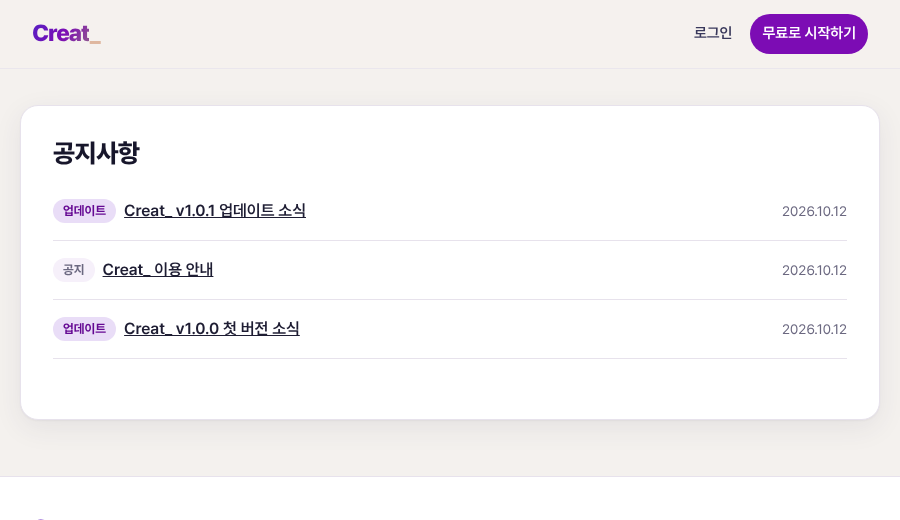
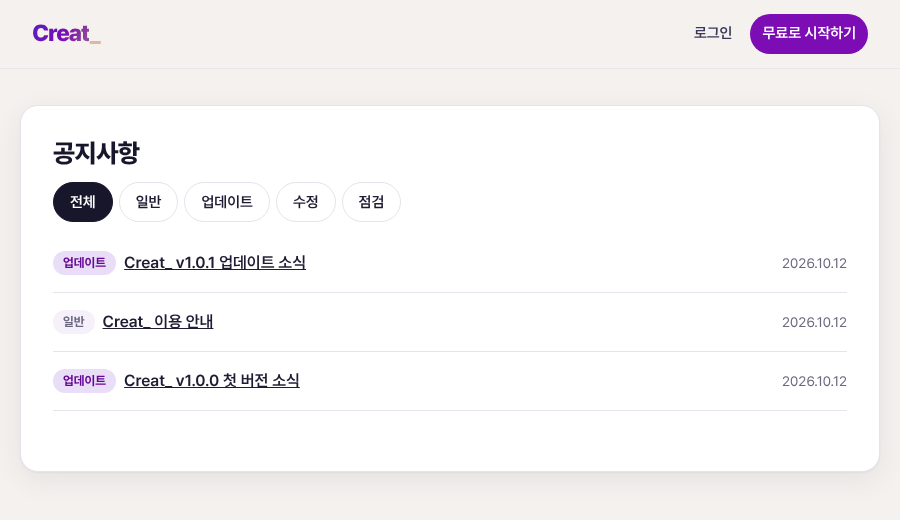
가입 이메일 중복 확인 버튼, 공지 카테고리 4가지·탭, 메일 비밀번호 공백 제거
- 가입 화면 [중복 확인]: GET /api/auth/signup/email-available, IP별 1분 20번.
  이미 가입된 이메일은 인증번호 요청도 409 EMAIL_TAKEN (D-99, 헌법 2.0.0)
- 공지 카테고리 일반·업데이트·수정·점검, 공지사항 목록 위 탭 (D-98)
- deploy.sh: MAIL_USERNAME·MAIL_PASSWORD의 공백을 빼고 넣음
  (운영에서 Gmail이 MailAuthenticationException으로 로그인을 거절함)
- v1.0.1 노트와 캡처 갱신

Claude-Session: https://claude.ai/code/session_01MxnkknZ99PkVXPKJhzrwTG

diff --git a/app/src/main/resources/static/js/pages/signup.js b/app/src/main/resources/static/js/pages/signup.js
@@ -8,7 +8,7 @@ if (me) {
 }
 
 const $ = (id) => document.getElementById(id);
-const state = { email: null, password: null, nicknameChecked: null };
+const state = { email: null, password: null, emailChecked: null, nicknameChecked: null };
 
 function showStep(n) {
   [1, 2, 3].forEach((i) => { $('step' + i).hidden = i !== n; });
@@ -20,26 +20,59 @@ function showStep(n) {
 
 // ① 이메일 인증 (USR-02)
 let resendTimer = null;
+let resendTimerRunning = false;
 function startResendCooldown(seconds) {
   const button = $('send-code');
   let left = seconds;
   button.disabled = true;
+  resendTimerRunning = true;
   clearInterval(resendTimer);
   resendTimer = setInterval(() => {
     left -= 1;
     button.textContent = left > 0 ? `다시 보내기 (${left}초)` : '다시 보내기';
     if (left <= 0) {
       clearInterval(resendTimer);
-      button.disabled = false;
+      resendTimerRunning = false;
+      button.disabled = state.emailChecked === null;
     }
   }, 1000);
 }
 
-$('send-code').addEventListener('click', async () => {
+// 이메일 중복 확인 (D-99). 확인한 이메일과 지금 칸의 값이 같을 때만 인증번호를 받을 수 있다.
+$('check-email').addEventListener('click', async () => {
+  const email = $('email').value.trim();
   $('step1-error').textContent = '';
   try {
-    const res = await api.post('/api/auth/signup/code', { email: $('email').value });
-    state.email = $('email').value;
+    const res = await api.get('/api/auth/signup/email-available?email=' + encodeURIComponent(email));
+    $('email-message').textContent = res.available
+      ? '가입할 수 있는 이메일입니다.'
+      : '이미 가입된 이메일입니다. 로그인하거나 비밀번호 찾기를 이용해 주세요.';
+    state.emailChecked = res.available ? email : null;
+  } catch (err) {
+    $('email-message').textContent = '';
+    $('step1-error').textContent = err.message;
+    state.emailChecked = null;
+  }
+  $('send-code').disabled = state.emailChecked === null || resendTimerRunning;
+});
+
+$('email').addEventListener('input', () => {
+  if (state.emailChecked !== null && $('email').value.trim() !== state.emailChecked) {
+    state.emailChecked = null;
+    $('email-message').textContent = '';
+    $('send-code').disabled = true;
+  }
+});
+
+$('send-code').addEventListener('click', async () => {
+  $('step1-error').textContent = '';
+  if (state.emailChecked === null) {
+    $('step1-error').textContent = '이메일 중복 확인을 먼저 해 주세요.';
+    return;
+  }
+  try {
+    const res = await api.post('/api/auth/signup/code', { email: state.emailChecked });
+    state.email = state.emailChecked;
     $('send-message').textContent = res.message;
     $('code-box').hidden = false;
     $('code').focus();

diff --git a/app/src/main/resources/static/js/pages/notice.js b/app/src/main/resources/static/js/pages/notice.js
@@ -1,7 +1,7 @@
 // 메인 공지사항 목록과 본문 (BRD-10). /notices, /notices/{id}
 import { ApiError, api } from '../api.js';
 import { el, initLayout, renderNotFound } from '../layout.js';
-import { categoryBadge } from '../notice-category.js';
+import { NOTICE_CATEGORIES, categoryBadge } from '../notice-category.js';
 import { renderPager } from '../pager.js';
 
 await initLayout();
@@ -25,12 +25,33 @@ if (id) {
     }
   }
 } else {
-  let page = Number(new URLSearchParams(location.search).get('page')) || 1;
+  const query = new URLSearchParams(location.search);
+  let page = Number(query.get('page')) || 1;
+  let category = NOTICE_CATEGORIES.some(([value]) => value === query.get('category')) ? query.get('category') : '';
+  const address = () => '/notices?' + new URLSearchParams({ ...(category && { category }), page }).toString();
+
+  // 전체·일반·업데이트·수정·점검 탭 (D-98)
+  const tabs = [['', '전체'], ...NOTICE_CATEGORIES].map(([value, label]) => {
+    const tab = el('button', { type: 'button', class: 'tab', role: 'tab' }, label);
+    tab.addEventListener('click', () => {
+      category = value;
+      page = 1;
+      history.replaceState(null, '', address());
+      load();
+    });
+    return [value, tab];
+  });
+  $('notice-tabs').replaceChildren(...tabs.map(([, tab]) => tab));
+
   const load = async () => {
+    tabs.forEach(([value, tab]) => {
+      tab.classList.toggle('active', value === category);
+      tab.setAttribute('aria-selected', String(value === category));
+    });
     try {
-      const res = await api.get('/api/notices/all?page=' + page);
+      const res = await api.get('/api/notices/all?page=' + page + (category ? '&category=' + category : ''));
       const list = $('notice-list');
-      if (res.items.length === 0) list.replaceChildren(el('li', { class: 'muted' }, '아직 공지가 없어요.'));
+      if (res.items.length === 0) list.replaceChildren(el('li', { class: 'muted' }, category ? '이 카테고리에는 아직 글이 없어요.' : '아직 공지가 없어요.'));
       else {
         list.replaceChildren(...res.items.map((n) => {
           const li = el('li');
@@ -42,7 +63,7 @@ if (id) {
       }
       renderPager($('pager'), res.page, res.totalPages, (p) => {
         page = p;
-        history.replaceState(null, '', '/notices?page=' + p);
+        history.replaceState(null, '', address());
         load();
       });
       $('list-view').hidden = false;

diff --git a/app/src/main/resources/static/js/notice-category.js b/app/src/main/resources/static/js/notice-category.js
@@ -1,9 +1,15 @@
-// 메인 공지 카테고리 표시 (D-98). 서버 값 NOTICE·UPDATE를 "공지"·"업데이트" 배지로 보여 준다.
+// 메인 공지 카테고리 표시 (D-98). 서버 값을 화면 이름과 배지로 바꾼다.
 import { el } from './layout.js';
 
-export const NOTICE_CATEGORIES = [['NOTICE', '공지'], ['UPDATE', '업데이트']];
+export const NOTICE_CATEGORIES = [['NOTICE', '일반'], ['UPDATE', '업데이트'], ['FIX', '수정'], ['MAINTENANCE', '점검']];
+
+const BADGE_CLASS = { NOTICE: 'muted-badge', UPDATE: '', FIX: 'fix-badge', MAINTENANCE: 'warn' };
+
+export function categoryLabel(category) {
+  return (NOTICE_CATEGORIES.find(([value]) => value === category) || NOTICE_CATEGORIES[0])[1];
+}
 
 export function categoryBadge(category) {
-  const update = category === 'UPDATE';
-  return el('span', { class: update ? 'badge notice-cat' : 'badge muted-badge notice-cat' }, update ? '업데이트' : '공지');
+  const cls = BADGE_CLASS[category] ?? BADGE_CLASS.NOTICE;
+  return el('span', { class: `badge ${cls} notice-cat`.replace('  ', ' ') }, categoryLabel(category));
 }

diff --git a/app/src/main/resources/static/signup.html b/app/src/main/resources/static/signup.html
@@ -25,9 +25,11 @@
         <label for="email">이메일</label>
         <div class="row">
           <input id="email" type="email" autocomplete="email" required>
-          <button id="send-code" type="button">인증번호 받기</button>
+          <button id="check-email" type="button">중복 확인</button>
         </div>
-        <p class="hint">한 이메일로 한 계정만 만들 수 있어요. 이미 가입된 이메일이면 인증번호 대신 "이미 가입된 이메일입니다" 메일이 가요.</p>
+        <p class="hint">한 이메일로 한 계정만 만들 수 있어요. 중복 확인 후 인증번호를 받아 주세요.</p>
+        <p id="email-message" class="info"></p>
+        <button id="send-code" type="button" disabled>인증번호 받기</button>
         <p id="send-message" class="info"></p>
         <div id="code-box" hidden>
           <label for="code">인증번호 6자리</label>

diff --git a/app/src/main/resources/static/css/common.css b/app/src/main/resources/static/css/common.css
@@ -679,6 +679,7 @@ select.reason-filter { width: auto; margin: 4px 0 8px; }
 .notice-list li .muted { flex: none; }
 .notice-title { display: flex; align-items: center; gap: 8px; min-width: 0; }
 .notice-cat { flex: none; }
+.badge.fix-badge { background: #E3F1EA; color: #2E6B4F; }
 .side-more { margin: 10px 0 0; font-size: 0.88rem; }
 
 /* ----- 글 화면의 목록 버튼 ----- */

diff --git a/app/src/main/resources/static/notice.html b/app/src/main/resources/static/notice.html
@@ -14,6 +14,7 @@
     <p id="error" class="notice" hidden></p>
     <section id="list-view" class="card" hidden>
       <h1 class="section-title">공지사항</h1>
+      <div class="tabs" role="tablist" id="notice-tabs"></div>
       <ul id="notice-list" class="notice-list"></ul>
       <nav id="pager" class="pager" aria-label="공지 쪽"></nav>
     </section>

diff --git a/app/src/main/java/com/blognm/mainblog/auth/SignupService.java b/app/src/main/java/com/blognm/mainblog/auth/SignupService.java
@@ -43,16 +43,26 @@ public class SignupService {
         this.clock = clock;
     }
 
-    /**
-     * 인증번호 요청. 가입 여부와 관계없이 같은 응답을 준다 (D-28).
-     * 이미 가입된 이메일도 인증 행을 만들어 다시 보내기 1분 제한이 똑같이 걸리게 하고,
-     * 그 행의 해시는 어떤 6자리로도 맞출 수 없는 값으로 둔다.
-     */
+    /** 이메일 중복 확인. 가입 화면에서 바로 알려 준다 (D-99). 하나씩 넣어 보는 것을 막으려고 IP별로 센다. */
+    public boolean isEmailAvailable(String rawEmail, String clientIp) {
+        String email = MemberRules.normalizeEmail(rawEmail);
+        if (!rateLimiter.tryAcquire("email-check:" + clientIp, props.rateLimit().emailCheckPerMinute(),
+                Duration.ofMinutes(1))) {
+            throw new ApiException(HttpStatus.TOO_MANY_REQUESTS, "TOO_MANY_REQUESTS",
+                    "요청이 너무 많습니다. 잠시 후 다시 시도해 주세요.");
+        }
+        return !members.existsByEmail(email);
+    }
+
+    /** 인증번호 요청. 이미 가입된 이메일이면 메일을 보내지 않고 바로 알려 준다 (D-99). */
     @Transactional
     public void requestCode(String rawEmail, String clientIp) {
         String email = MemberRules.normalizeEmail(rawEmail);
         LocalDateTime now = LocalDateTime.now(clock);
         AppProperties.Signup cfg = props.signup();
+        if (members.existsByEmail(email)) {
+            throw emailTaken();
+        }
 
         verifications.findFirstByEmailAndPurposeOrderByIdDesc(email, Purpose.SIGNUP).ifPresent(prev -> {
             if (prev.getSentAt().plus(cfg.resendInterval()).isAfter(now)) {
@@ -68,16 +78,15 @@ public class SignupService {
         // 다시 보내면 이전 번호는 무효 (USR-02)
         verifications.deleteAllFor(email, Purpose.SIGNUP);
 
-        boolean registered = members.existsByEmail(email);
         String code = Hashing.sixDigitCode();
-        String codeHash = registered ? hashCode(email, Hashing.randomToken()) : hashCode(email, code);
-        verifications.save(EmailVerification.issue(email, Purpose.SIGNUP, codeHash, now, now.plus(cfg.codeTtl())));
+        verifications.save(EmailVerification.issue(email, Purpose.SIGNUP, hashCode(email, code), now,
+                now.plus(cfg.codeTtl())));
+        mail.sendSignupCode(email, code, cfg.codeTtl().toMinutes());
+    }
 
-        if (registered) {
-            mail.sendAlreadyRegistered(email);
-        } else {
-            mail.sendSignupCode(email, code, cfg.codeTtl().toMinutes());
-        }
+    private static ApiException emailTaken() {
+        return new ApiException(HttpStatus.CONFLICT, "EMAIL_TAKEN",
+                "이미 가입된 이메일입니다. 로그인하거나 비밀번호 찾기를 이용해 주세요.");
     }
 
     /** 인증번호 확인. 10분 만료, 5번 틀리면 무효 (USR-02). */

diff --git a/app/src/main/java/com/blognm/mainblog/notice/NoticeService.java b/app/src/main/java/com/blognm/mainblog/notice/NoticeService.java
@@ -27,8 +27,8 @@ public class NoticeService {
     static final int CONTENT_MAX = 5000;
     static final int PAGE_SIZE = 20;
 
-    /** 공지 카테고리 (D-98). 화면에는 "공지", "업데이트"로 보인다. */
-    public enum Category { NOTICE, UPDATE }
+    /** 공지 카테고리 (D-98). 화면에는 일반·업데이트·수정·점검으로 보인다. */
+    public enum Category { NOTICE, UPDATE, FIX, MAINTENANCE }
     private static final DateTimeFormatter DATE = DateTimeFormatter.ofPattern("yyyy.MM.dd");
 
     private final NamedParameterJdbcTemplate jdbc;
@@ -45,13 +45,21 @@ public class NoticeService {
 
     @Transactional(readOnly = true)
     public Page list(int page) {
-        Long total = jdbc.queryForObject("SELECT COUNT(*) FROM notices WHERE status = 'NORMAL'", Map.of(), Long.class);
+        return list(page, null);
+    }
+
+    /** category가 있으면 그 카테고리만 (공지사항 화면의 탭, D-98). */
+    @Transactional(readOnly = true)
+    public Page list(int page, Category category) {
+        String where = "status = 'NORMAL'" + (category == null ? "" : " AND category = :category");
+        MapSqlParameterSource params = new MapSqlParameterSource("category", category == null ? null : category.name());
+        Long total = jdbc.queryForObject("SELECT COUNT(*) FROM notices WHERE " + where, params, Long.class);
         long count = total == null ? 0 : total;
         int current = Math.max(page, 1);
         List<Item> items = jdbc.query("""
-                SELECT id, title, category, created_at FROM notices WHERE status = 'NORMAL'
+                SELECT id, title, category, created_at FROM notices WHERE %s
                 ORDER BY created_at DESC, id DESC LIMIT :size OFFSET :offset
-                """, new MapSqlParameterSource("size", PAGE_SIZE).addValue("offset", (current - 1) * PAGE_SIZE),
+                """.formatted(where), params.addValue("size", PAGE_SIZE).addValue("offset", (current - 1) * PAGE_SIZE),
                 (rs, i) -> new Item(rs.getLong("id"), rs.getString("title"), rs.getString("category"),
                         rs.getObject("created_at", LocalDateTime.class).format(DATE)));
         return new Page(items, current, (int) ((count + PAGE_SIZE - 1) / PAGE_SIZE), count);

diff --git a/app/src/test/java/com/blognm/mainblog/auth/SignupTest.java b/app/src/test/java/com/blognm/mainblog/auth/SignupTest.java
@@ -1,6 +1,7 @@
 package com.blognm.mainblog.auth;
 
 import static org.assertj.core.api.Assertions.assertThat;
+import static org.springframework.test.web.servlet.request.MockMvcRequestBuilders.get;
 import static org.springframework.test.web.servlet.result.MockMvcResultMatchers.jsonPath;
 import static org.springframework.test.web.servlet.result.MockMvcResultMatchers.status;
 
@@ -39,19 +40,25 @@ class SignupTest extends IntegrationTest {
     }
 
     @Test
-    @DisplayName("이미 가입된 이메일도 화면 문구는 같고, 메일로만 '이미 가입된 이메일' 안내가 간다 (D-28)")
-    void alreadyRegisteredLooksTheSame() throws Exception {
+    @DisplayName("중복 확인 버튼: 가입된 이메일이면 화면에서 바로 알려 주고, 인증번호 메일도 보내지 않는다 (D-99)")
+    void emailTaken() throws Exception {
         signup("old@example.com", "Abcd1234!", "기존회원");
         mails.sent().clear();
         clock.advance(Duration.ofMinutes(2));
 
-        postJson("/api/auth/signup/code", "{\"email\":\"OLD@example.com\"}")
+        mvc.perform(get("/api/auth/signup/email-available").param("email", " OLD@example.com"))
                 .andExpect(status().isOk())
-                .andExpect(jsonPath("$.message").value("인증번호를 보냈습니다. 메일함을 확인해 주세요."));
+                .andExpect(jsonPath("$.available").value(false));
+        mvc.perform(get("/api/auth/signup/email-available").param("email", "fresh@example.com"))
+                .andExpect(jsonPath("$.available").value(true));
+        mvc.perform(get("/api/auth/signup/email-available").param("email", "not-an-email"))
+                .andExpect(status().isBadRequest())
+                .andExpect(jsonPath("$.code").value("INVALID_EMAIL"));
 
-        var mail = waitForMail("old@example.com");
-        assertThat(mail.subject()).contains("이미 가입된 이메일");
-        assertThat(mail.body()).doesNotContain("인증번호:");
+        postJson("/api/auth/signup/code", "{\"email\":\"OLD@example.com\"}")
+                .andExpect(status().isConflict())
+                .andExpect(jsonPath("$.code").value("EMAIL_TAKEN"));
+        assertThat(mails.sent()).isEmpty();
     }
 
     @Test

diff --git a/app/src/main/java/com/blognm/mainblog/mail/AuthMailService.java b/app/src/main/java/com/blognm/mainblog/mail/AuthMailService.java
@@ -47,19 +47,6 @@ public class AuthMailService {
                 """.formatted(code, ttlMinutes));
     }
 
-    /** 이미 가입된 이메일로 가입을 시도하면 인증번호 대신 이 안내를 보낸다 (D-28). */
-    @Async
-    public void sendAlreadyRegistered(String email) {
-        send(email, "[Creat_] 이미 가입된 이메일입니다", """
-                이 이메일로 회원가입을 시도했지만, 이미 가입된 이메일입니다.
-
-                비밀번호가 기억나지 않으면 로그인 화면의 [비밀번호 찾기]를 이용해 주세요.
-                %s/login.html
-
-                본인이 요청하지 않았다면 이 메일을 무시하세요.
-                """.formatted(props.baseUrl()));
-    }
-
     private void send(String to, String subject, String body) {
         try {
             gateway.send(to, subject, body);

diff --git a/app/src/test/java/com/blognm/mainblog/notice/NoticeTest.java b/app/src/test/java/com/blognm/mainblog/notice/NoticeTest.java
@@ -80,6 +80,10 @@ class NoticeTest extends IntegrationTest {
                 {"title":"점검 안내 (바뀜)","content":"일요일로 바뀌었습니다","category":"UPDATE"}""", admin).andExpect(status().isOk());
         getAs("/api/notices/" + id).andExpect(jsonPath("$.title").value("점검 안내 (바뀜)"))
                 .andExpect(jsonPath("$.category").value("UPDATE"));
+        // 공지사항 탭: 카테고리로 거른다 (D-98)
+        getAs("/api/notices/all?category=UPDATE").andExpect(jsonPath("$.total").value(1));
+        getAs("/api/notices/all?category=MAINTENANCE").andExpect(jsonPath("$.total").value(0));
+        getAs("/api/notices/all?category=WRONG").andExpect(status().isBadRequest());
         assertThat(notices("a@example.com")).isEqualTo(1);
 
         sendAs(HttpMethod.DELETE, "/api/admin/notices/" + id, null, admin).andExpect(status().isOk());

diff --git a/app/src/main/java/com/blognm/mainblog/auth/AuthController.java b/app/src/main/java/com/blognm/mainblog/auth/AuthController.java
@@ -44,6 +44,11 @@ public class AuthController {
         return Map.of("message", "인증번호를 보냈습니다. 메일함을 확인해 주세요.");
     }
 
+    @GetMapping("/signup/email-available")
+    public Map<String, Boolean> emailAvailable(@RequestParam String email, HttpServletRequest request) {
+        return Map.of("available", signupService.isEmailAvailable(email, ClientIp.of(request)));
+    }
+
     @PostMapping("/signup/verify")
     public Map<String, Boolean> verifySignupCode(@RequestBody VerifyBody body) {
         signupService.verifyCode(body.email(), body.code());
